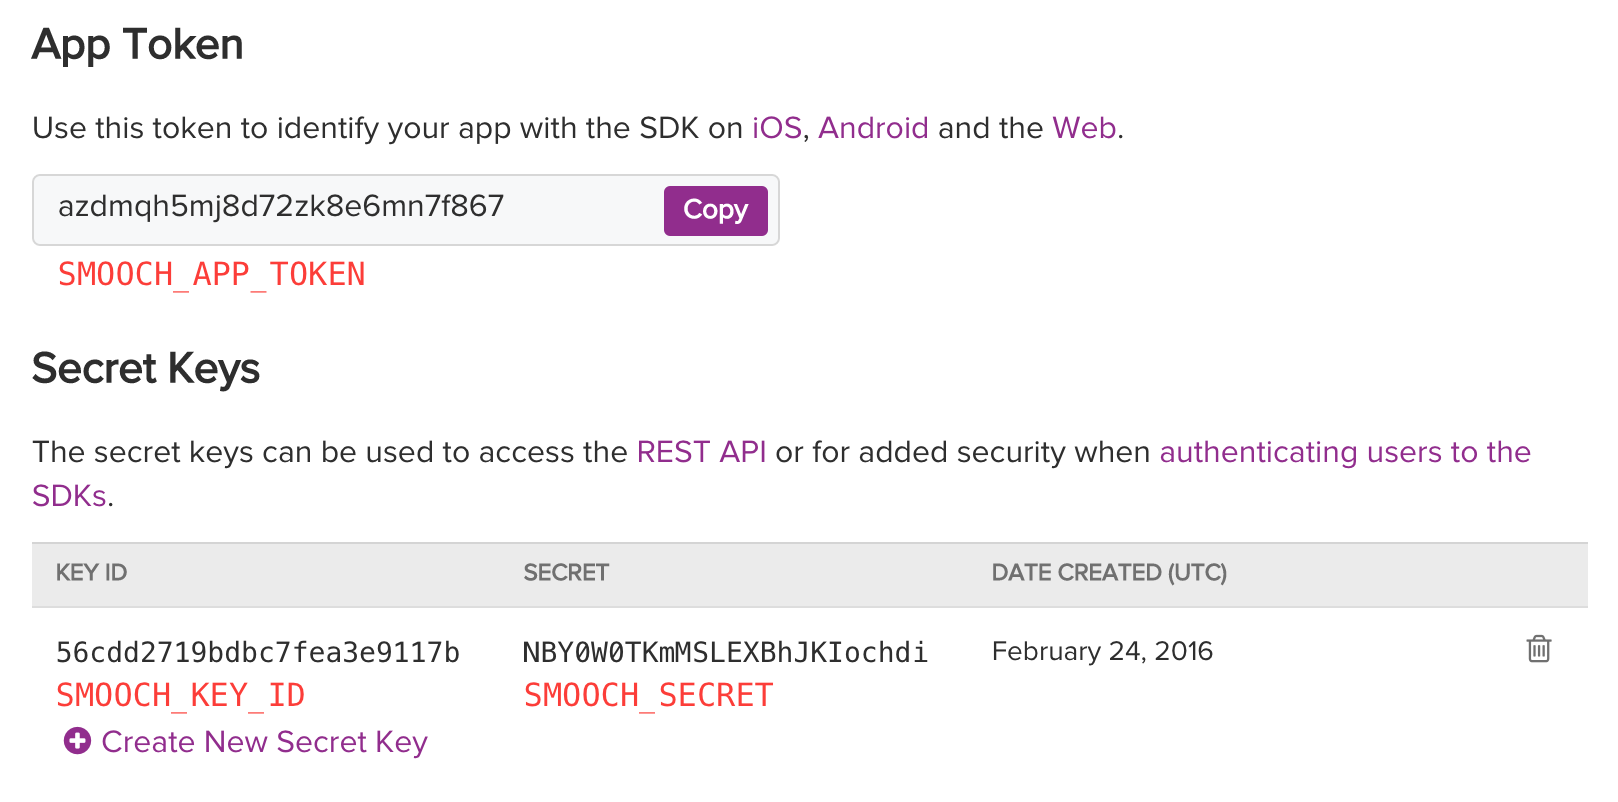
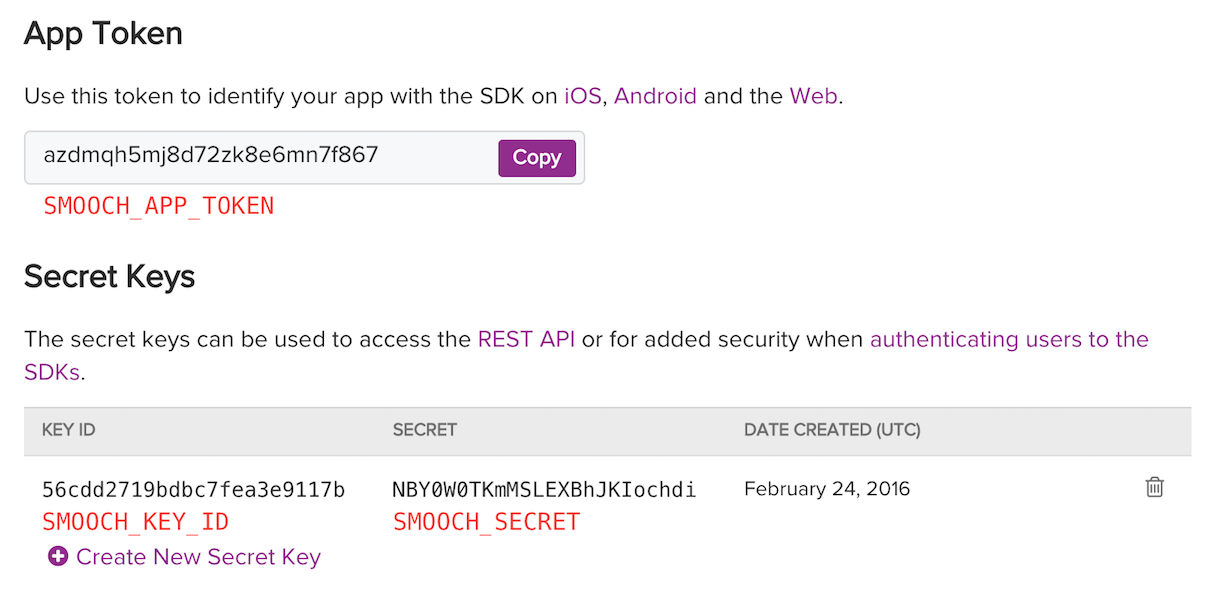
Adjust readme image sizes

diff --git a/README.md b/README.md
@@ -10,9 +10,9 @@ All of these samples use the same scipt defined in `script.js`. Feel free to pla
 
 ## console
 
-![console](/img/console.gif)
-
 This is the simplest sample that runs via the command line and uses an in-memory store to track state.
+
+![console](/img/console.gif)
 
 To run it, simply:
 
@@ -24,9 +24,11 @@ And start chatting with your bot on the command line.
 
 ## smooch
 
+This sample is an Express app that uses the Smooch web widget to provide the chat interface. The app makes use of `SmoochApiStore` and `SmoochApiBot` to persist conversation state and user properties via Smooch.
+
 ![heroku](/img/heroku.gif)
 
-This sample is an Express app that uses the Smooch web widget to provide the chat interface. The app makes use of `SmoochApiStore` and `SmoochApiBot` to persist conversation state and user properties via Smooch.
+To deploy your own:
 
 1. First, sign up for a free account at [smooch.io](https://app.smooch.io/signup)
 
